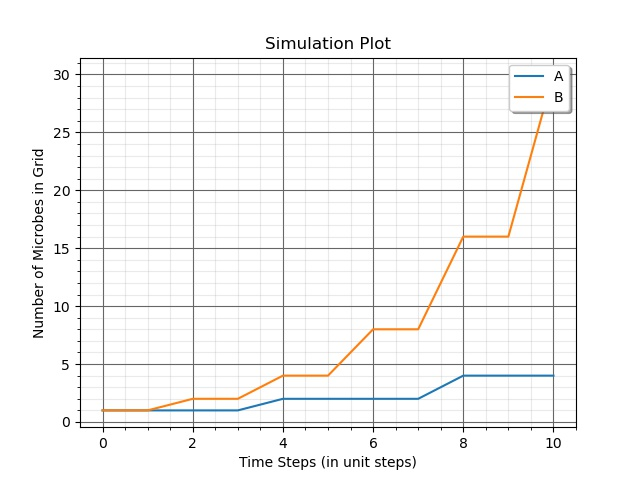
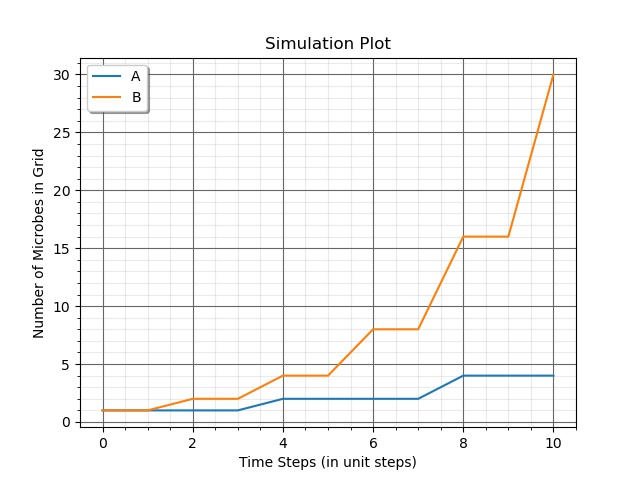
Add animation

Changed region(s): [[0.125, 0.125, 0.25, 0.25], [0.7812, 0.125, 0.9062, 0.25]]

diff --git a/src/World.py b/src/World.py
@@ -1,4 +1,5 @@
 import matplotlib.pyplot as plt
+import matplotlib.animation as ani
 from PIL import Image
 import numpy as np
 import Simulate
@@ -51,7 +52,7 @@ class World():
         return tdict
 
     # Averages multiple simulations and plots a single plot
-    def simulate_worlds(self, plot, stats):
+    def simulate_worlds(self, plot, stats, anim):
 
         tdict = {}
         for state in self.model.individual_state_types:
@@ -74,10 +75,10 @@ class World():
             statFile.close()
 
         # Plotting
-        for state in tdict.keys():
+        for state in tdict:
             plt.plot(tdict[state])
         plt.title('Simulation Plot')
-        plt.legend(list(tdict.keys()), loc='upper right', shadow=True)
+        plt.legend(list(tdict.keys()), loc='upper left', shadow=True)
         plt.ylabel('Number of Microbes in Grid')
         plt.xlabel('Time Steps (in unit steps)')
         plt.grid(b=True, which='major', color='#666666', linestyle='-')
@@ -87,6 +88,21 @@ class World():
         fig1.savefig(self.config_obj.example_path + '/results.jpg')
         if(plot):
             plt.show()
+        if anim:
+            fig = plt.figure()
+            plt.title('Simulation Plot')
+            plt.legend(list(tdict.keys()), loc='upper left', shadow=True)
+            plt.ylabel('Number of Microbes in Grid')
+            plt.xlabel('Time Steps (in unit steps)')
+            plt.grid(b=True, which='major', color='#666666', linestyle='-')
+            plt.minorticks_on()
+            plt.grid(b=True, which='minor', color='#999999', linestyle='-', alpha=0.2)
+            def buildmebarchart(i=int):
+                plt.legend(tdict.keys())
+                for state in tdict.keys():
+                    plt.plot(tdict[state][:i])
+            animator = ani.FuncAnimation(fig, buildmebarchart, interval=150)
+            animator.save(self.config_obj.example_path + '/results.gif')
 
         # Spread in Grid
         agent_locations = {}

diff --git a/src/Main.py b/src/Main.py
@@ -33,6 +33,7 @@ if __name__=="__main__":
     arg_parser.add_argument("Example_Name")
     arg_parser.add_argument("-np", "--noplot", help="doesn't show plot after simulation", required = False, action = "store_true")
     arg_parser.add_argument("-s" , "--stats" , help="creates statistics.txt file in the example folder", required = False, action = "store_true")
+    arg_parser.add_argument("-a", "--animate", help="creates gif animation in the example folder", required=False, action="store_true")
     args = arg_parser.parse_args()
 
     example_path = args.Example_Name
@@ -43,6 +44,7 @@ if __name__=="__main__":
 
     stats = args.stats
     plot = not args.noplot
+    anim = args.animate
 
     # Read Config File
     config_obj = ReadFile.ReadConfiguration(config_filename, example_path)
@@ -53,4 +55,4 @@ if __name__=="__main__":
     # Creation of World object
     world_obj = World.World(config_obj, model)
     # Simulate Worlds
-    world_obj.simulate_worlds(plot, stats)
+    world_obj.simulate_worlds(plot, stats, anim)
